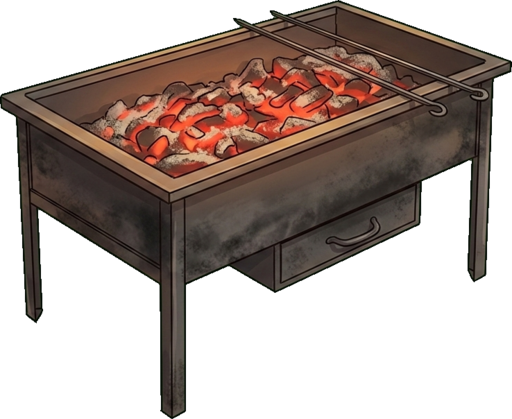
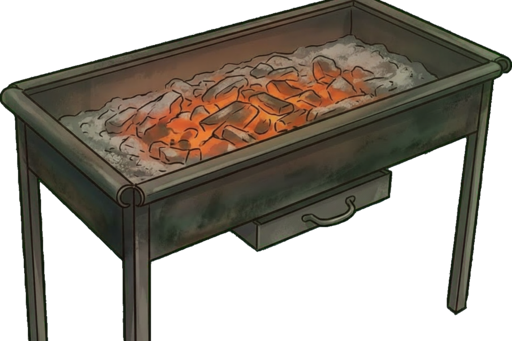
feat(kiyma): a grill with nothing already on it, and a bin that belongs here

diff --git a/apps/kiyma/tool/prepare_assets.py b/apps/kiyma/tool/prepare_assets.py
@@ -61,7 +61,7 @@ DROPPED_INGREDIENTS = {"maydanoz", "patlican"}
 COP_ALANI = {
     "name": "cop_alani",
     "category": "cop",
-    "asset": "cop_kovasi_1.png",
+    "asset": "cop_kovasi_2.png",
     "asset_fit": "alt",
     "x": 0,
     "y": 462,
